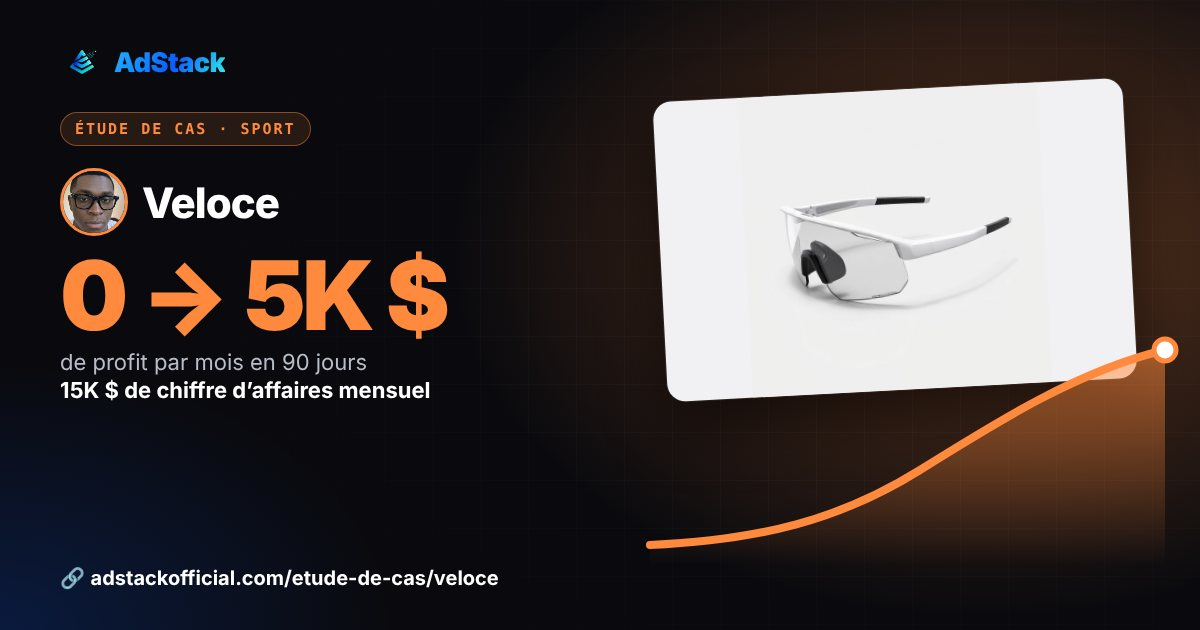
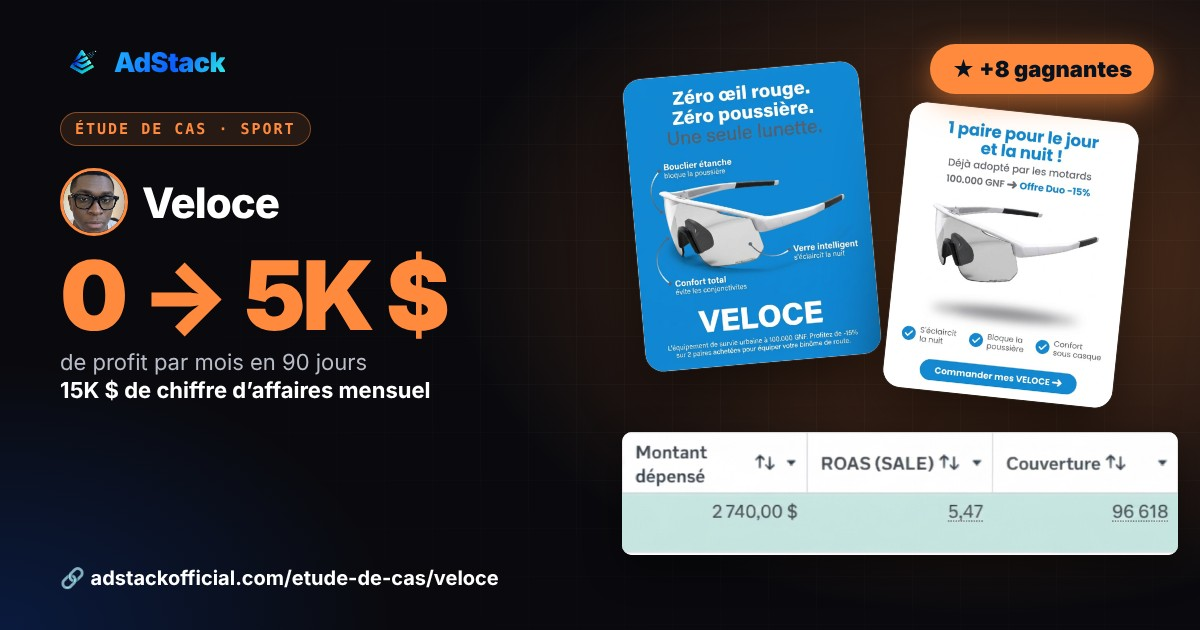
Veloce: preuve Ads Manager

Changed region(s): [[0.4933, 0.0603, 0.9867, 0.9048], [0.8942, 0.3619, 0.925, 0.3921]]

diff --git a/public/etude-de-cas-veloce.html b/public/etude-de-cas-veloce.html
@@ -9,11 +9,11 @@
 <meta property="og:title" content="Veloce : de 0 à 5K $ de profit par mois en 90 jours | Étude de cas AdStack">
 <meta property="og:description" content="Étude de cas AdStack : des angles qui visent la bonne cible, pour une marque de sport.">
 <meta property="og:url" content="https://www.adstackofficial.com/etude-de-cas/veloce">
-<meta property="og:image" content="https://www.adstackofficial.com/assets/miniatures/etude-de-cas-veloce.jpg">
+<meta property="og:image" content="https://www.adstackofficial.com/assets/miniatures/etude-de-cas-veloce.jpg?v=4">
 <meta property="og:image:width" content="1200">
 <meta property="og:image:height" content="630">
 <meta name="twitter:card" content="summary_large_image">
-<meta name="twitter:image" content="https://www.adstackofficial.com/assets/miniatures/etude-de-cas-veloce.jpg">
+<meta name="twitter:image" content="https://www.adstackofficial.com/assets/miniatures/etude-de-cas-veloce.jpg?v=4">
 
 <meta name="description" content="Comment une marque e-commerce a trouvé ses créatives gagnantes avec AdStack.">
 <link rel="icon" href="/favicon.ico">
@@ -48,6 +48,7 @@ h2{font-size:clamp(24px,3.6vw,34px);line-height:1.2;letter-spacing:-.5px;margin:
 .fig span{display:block;margin-top:8px;font-size:13px;color:var(--mut)}
 .quote{display:grid;grid-template-columns:1fr;gap:22px}
 .quote blockquote{margin:0;font-size:clamp(19px,2.6vw,26px);line-height:1.4;font-weight:600}
+.proof{margin:0 0 4px}.proof img{display:block;width:100%;height:auto;border-radius:16px;border:1px solid rgba(255,255,255,.14);box-shadow:0 18px 50px rgba(0,0,0,.45)}.proof figcaption{margin-top:10px;font-size:13px;color:var(--mut)}
 .who{display:flex;align-items:center;gap:12px;margin-top:18px;font-size:14px;color:var(--mut)}
 .who img{width:52px;height:52px;border-radius:50%;object-fit:cover}
 .who b{color:#fff;display:block}
@@ -404,7 +405,7 @@ h+=figs((D.chiffres||[]).slice(0,4))+'</div></section>';
 var t=D.temoignage||{};
 if(t.texte||t.youtube){h+='<section class="s"><div class="wrap rv"><div class="eyebrow">Ce que dit le fondateur</div><h2>Entendu directement de la marque</h2><div class="quote">';
  if(t.youtube)h+='<div class="video"><iframe src="https://www.youtube-nocookie.com/embed/'+esc(t.youtube)+'" title="Témoignage" loading="lazy" allowfullscreen></iframe></div>';
- if(t.texte){h+='<div><blockquote>« '+esc(t.texte)+' »</blockquote>';
+ if(t.texte){h+='<div>'+(t.preuve&&t.preuve.img?'<figure class="proof"><img src="'+esc(t.preuve.img)+'" alt="'+esc(t.preuve.legende||'')+'" loading="lazy">'+(t.preuve.legende?'<figcaption>'+esc(t.preuve.legende)+'</figcaption>':'')+'</figure>':'')+'<blockquote>« '+esc(t.texte)+' »</blockquote>';
   if(t.nom)h+='<div class="who">'+(t.photo?'<img src="'+esc(t.photo)+'" alt="'+esc(t.nom)+'">':'')+'<div><b>'+esc(t.nom)+'</b>'+esc(t.role)+'</div></div>';
   h+='</div>'}
  h+='</div></div></section>'}

diff --git a/public/etude-de-cas-veloce-data.js b/public/etude-de-cas-veloce-data.js
@@ -31,6 +31,7 @@
   // Témoignage (texte retravaillé pour la lecture : à faire valider par le fondateur avant publication)
   temoignage: {
     texte: "Ça faisait plusieurs semaines que j’hésitais à lancer ma boutique dans la niche sportive : je ne savais pas par où commencer côté créatives. Je voulais simplement tester mon produit. Dès les premières créatives reçues, elles étaient si bien pensées que j’ai su que j’avais fait le bon choix. Ma campagne a été rentable dès le départ, puis j’ai pu scaler et stabiliser en injectant régulièrement de nouvelles créatives stratégiques.",
+    preuve: { img: "/assets/vente/veloce-ads-manager.jpg" },
     nom: "Ibrahim Gomis",
     role: "Owner de Veloce",
     photo: "/assets/vente/ibrahim-gomis.jpg",
@@ -45,7 +46,7 @@
     { valeur: "Budget restreint", label: "pas d’ad-spend fixe au départ" }
   ],
   produitsImgs: [
-    { img: "/assets/vente/veloce-lunette.jpg", legende: "Lunette de vitesse photochromique" }
+    { img: "/assets/vente/veloce-lunette.jpg" }
   ],
 
   // Le problème
